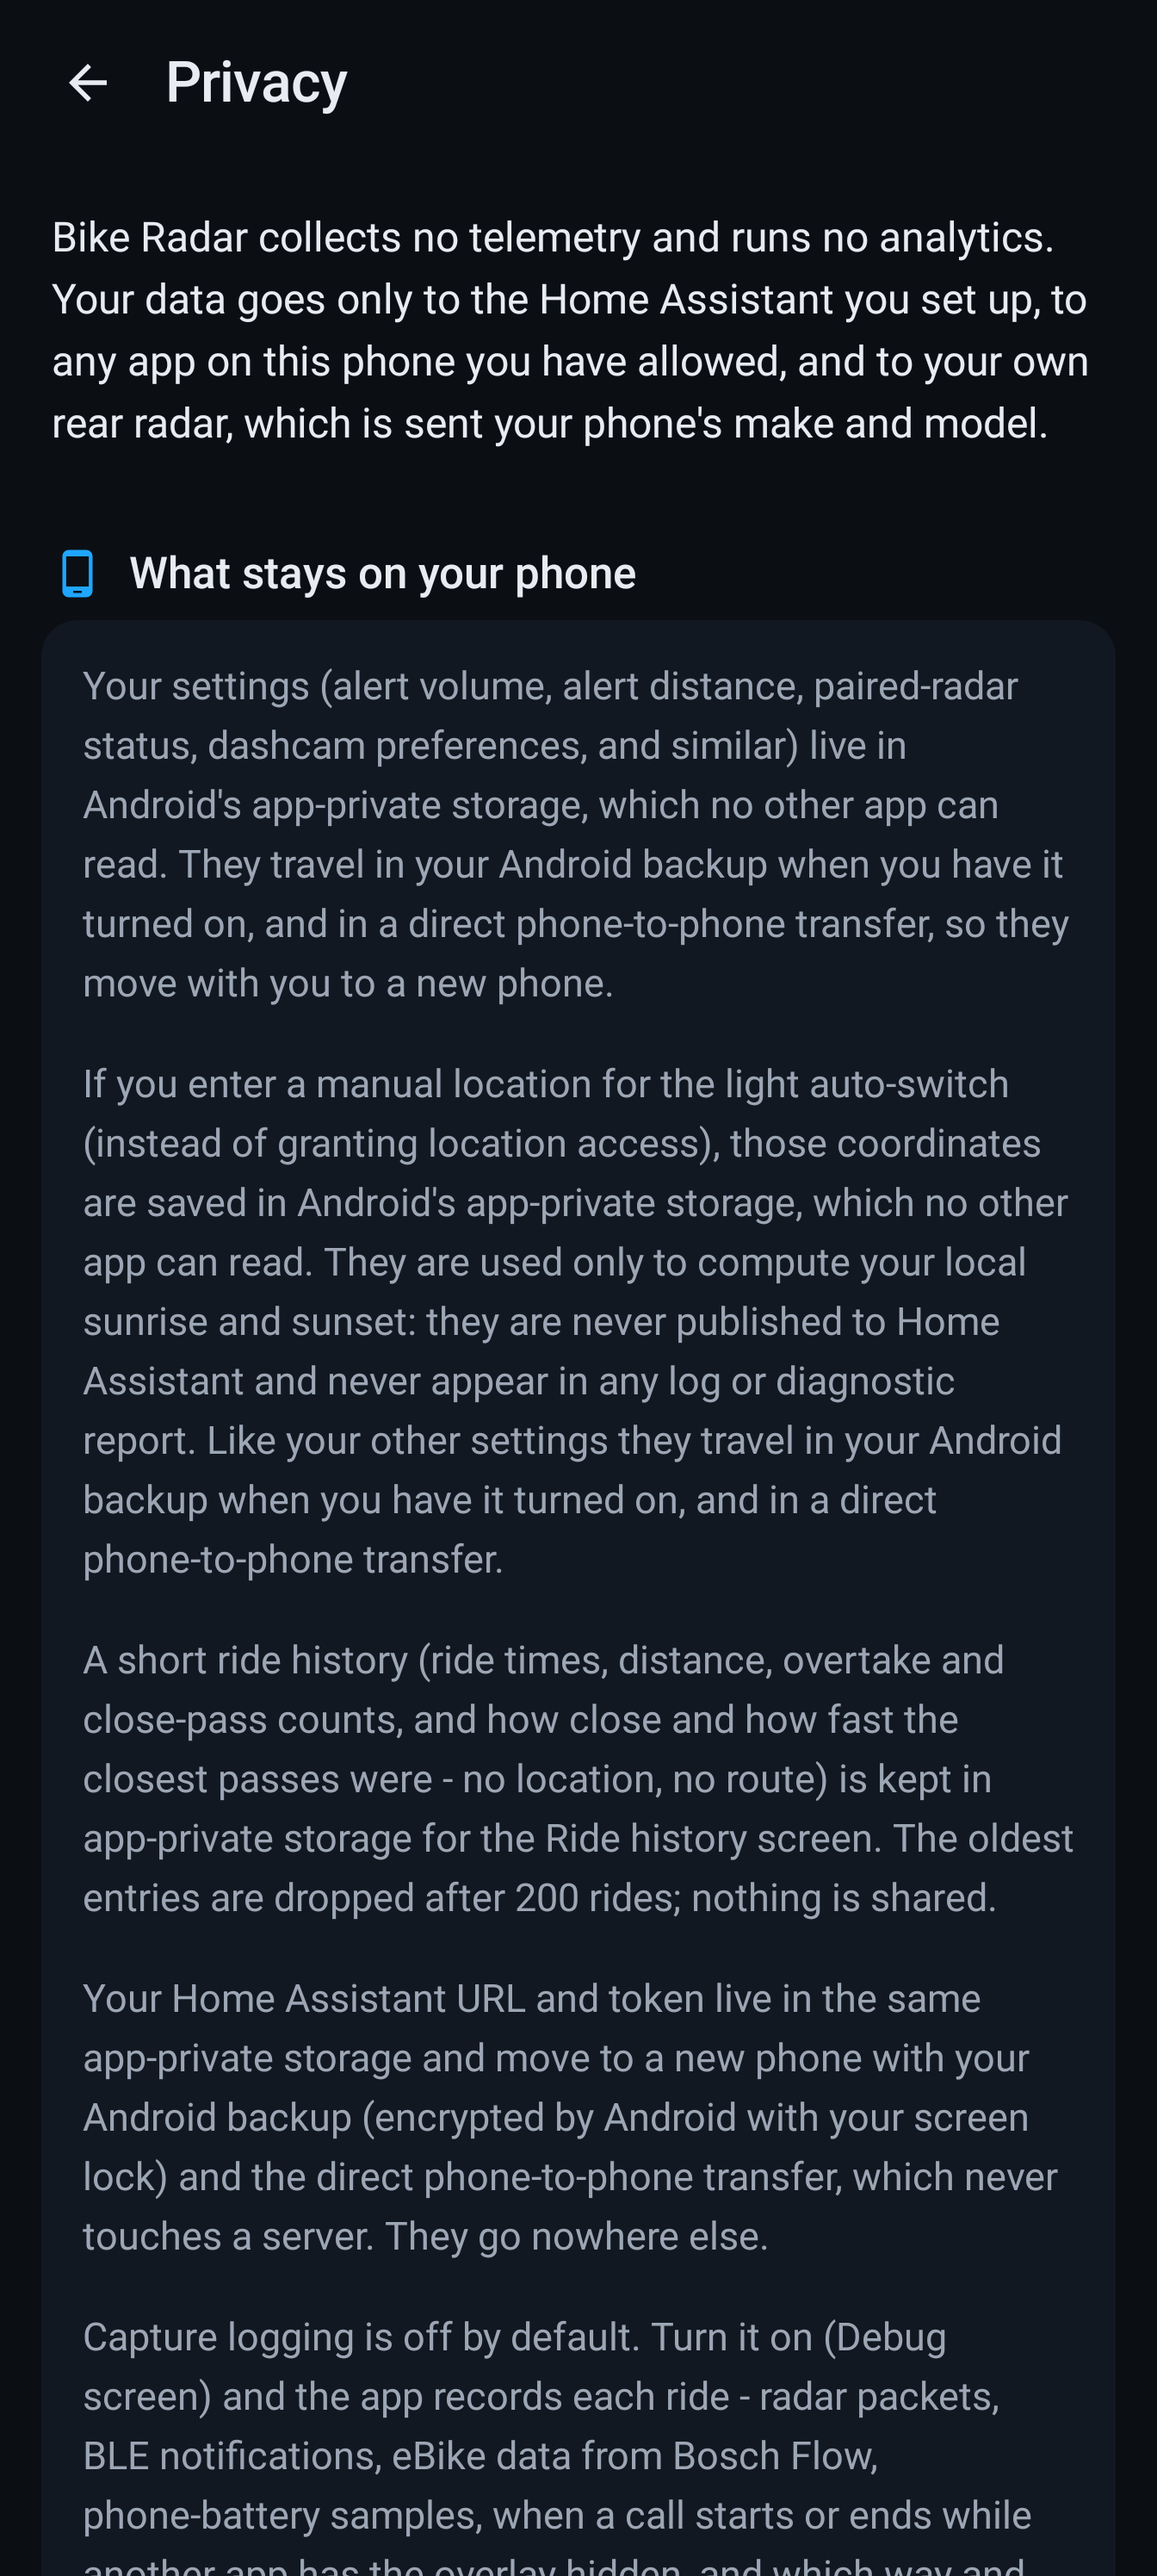
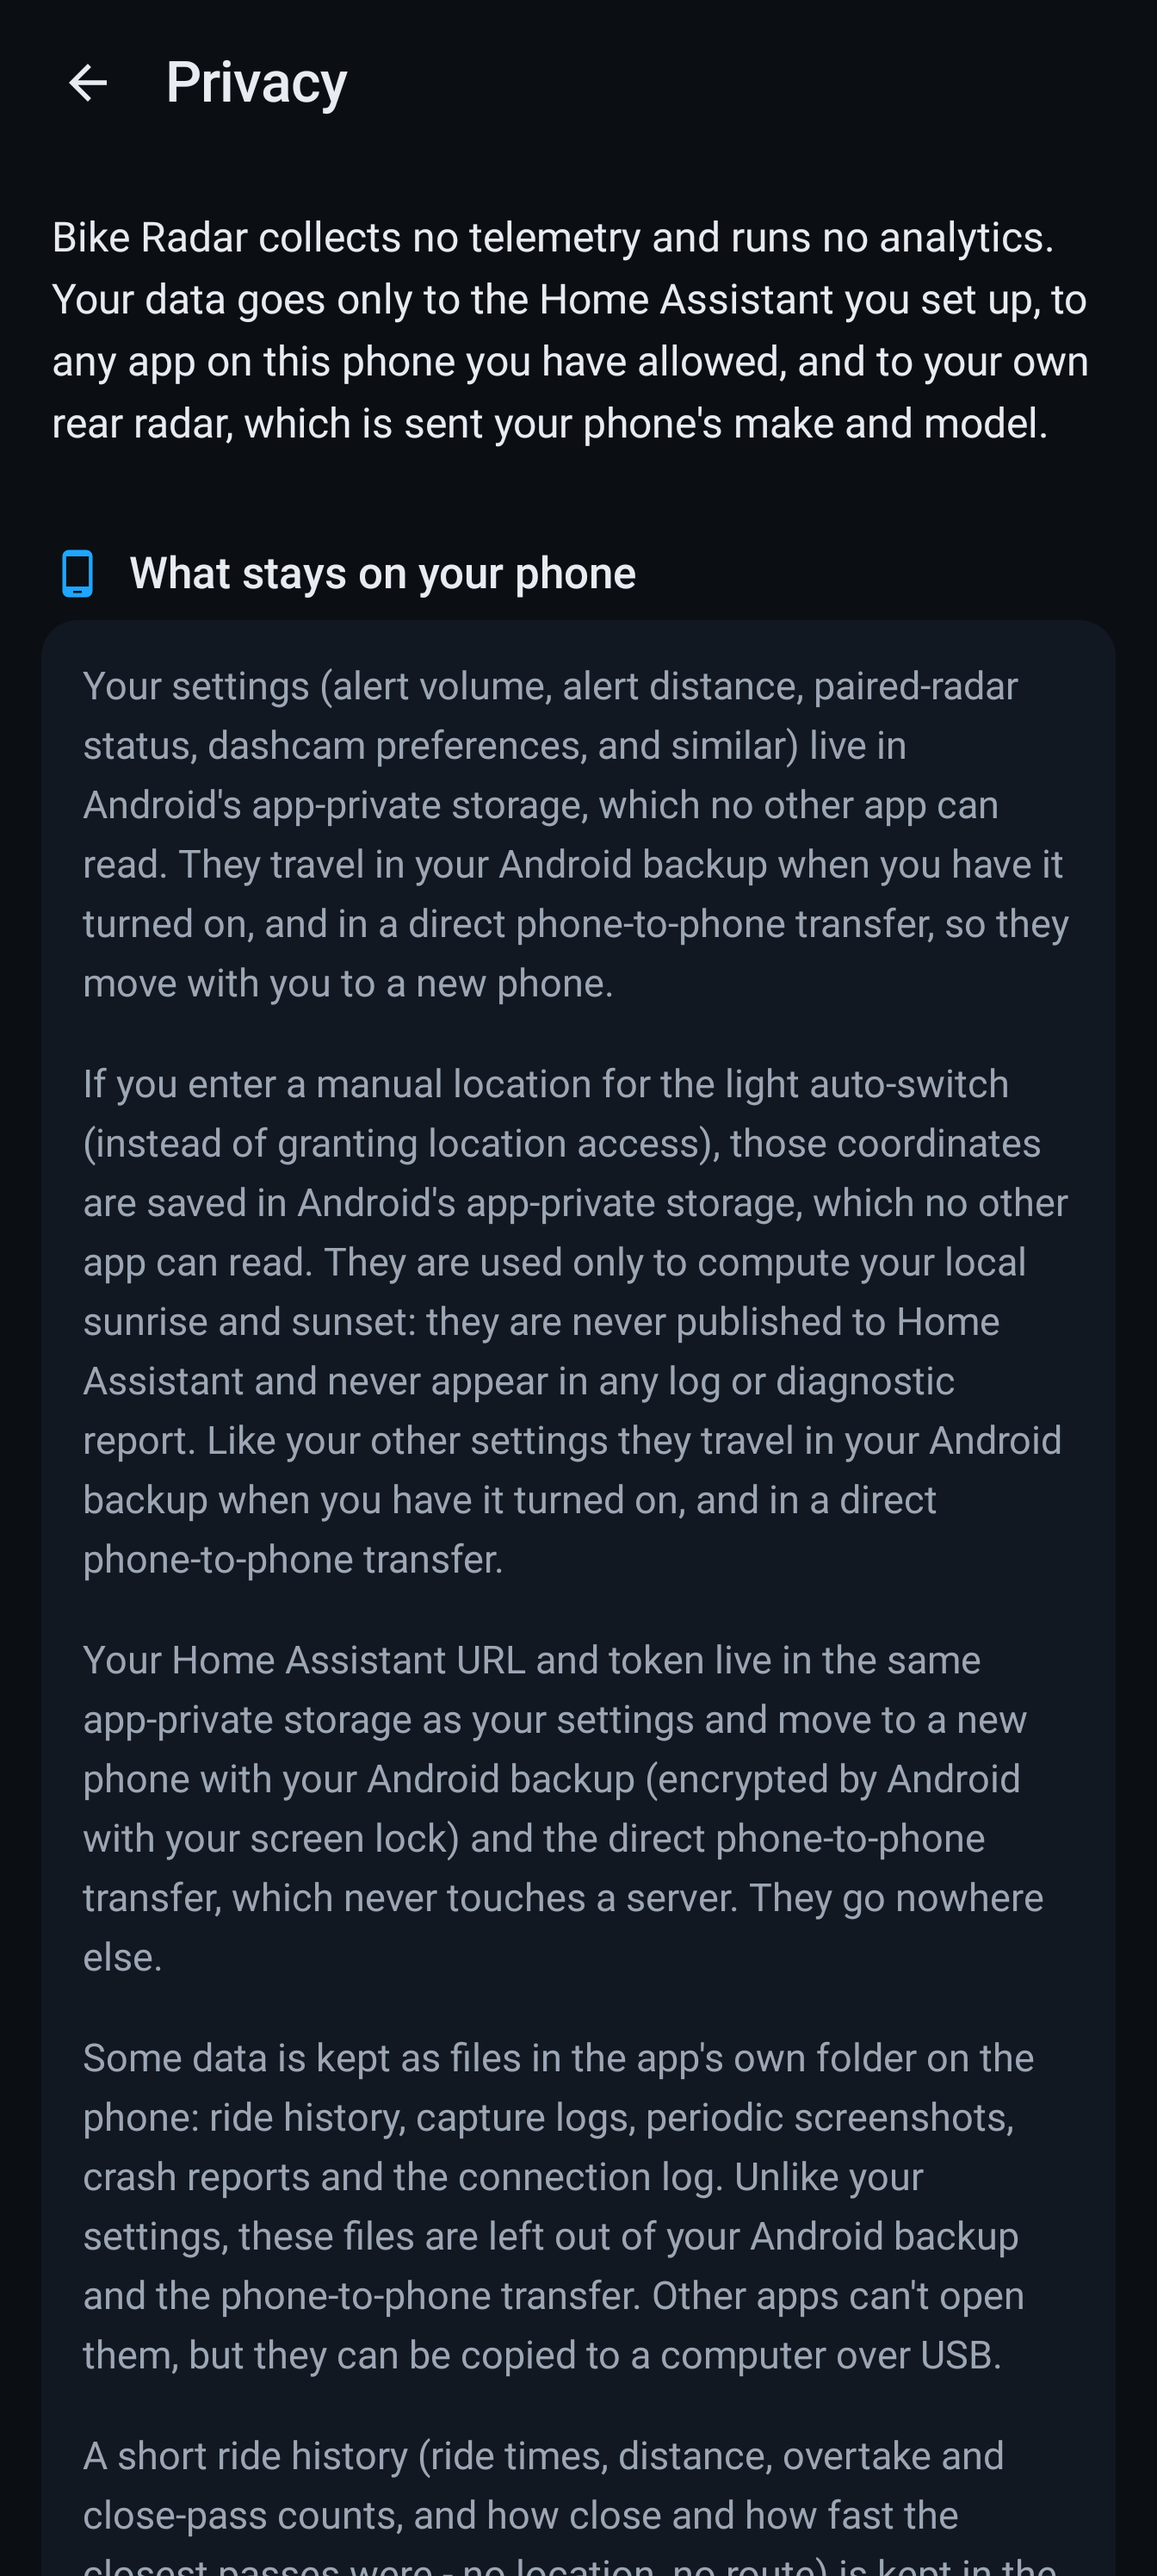
fix(privacy): say where ride history and logs are really kept
The Privacy screen called ride history, crash reports and the
connection log app-private storage, the phrase it uses for the Home
Assistant token. They are files in the app's own folder: other apps
cannot open them, but backups skip them and they can be copied over
USB. A new paragraph says so once, the others refer to it, and the
README matches.

Changed region(s): [[0.0625, 0.6219, 0.9062, 1.0]]

diff --git a/app/src/main/java/es/jjrh/bikeradar/ui/SettingsPrivacy.kt b/app/src/main/java/es/jjrh/bikeradar/ui/SettingsPrivacy.kt
@@ -91,8 +91,9 @@ private fun SettingsPrivacyBody(navController: NavController) {
             PrivacySection(Icons.Default.PhoneAndroid, R.string.settings_privacy_on_phone_label) {
                 PrivacyP(stringResource(R.string.settings_privacy_on_phone_settings))
                 PrivacyP(stringResource(R.string.settings_privacy_on_phone_location))
-                PrivacyP(stringResource(R.string.settings_privacy_on_phone_rides))
                 PrivacyP(stringResource(R.string.settings_privacy_on_phone_creds))
+                PrivacyP(stringResource(R.string.settings_privacy_on_phone_files))
+                PrivacyP(stringResource(R.string.settings_privacy_on_phone_rides))
                 PrivacyP(stringResource(R.string.settings_privacy_on_phone_capture))
                 PrivacyP(stringResource(R.string.settings_privacy_on_phone_screenshots, ScreenshotCaptureService.MAX_SCREENSHOTS))
                 PrivacyP(stringResource(R.string.settings_privacy_on_phone_crashes))

diff --git a/app/src/main/java/es/jjrh/bikeradar/RideHistoryStore.kt b/app/src/main/java/es/jjrh/bikeradar/RideHistoryStore.kt
@@ -12,10 +12,11 @@ import java.io.File
  * [BikeRadarService.maybePostRideSummary]) and read back by the Ride
  * history screen.
  *
- * Deliberately minimal - a single JSON-lines file in app-private
- * storage, no database. The history is a per-ride log, not a sync
- * target: it never leaves the phone, holds no location, and is capped
- * at [MAX_RIDES] (oldest dropped) so it can't grow unbounded.
+ * Deliberately minimal - a single JSON-lines file in app-specific
+ * external storage, no database. The history is a per-ride log, not a
+ * sync target: the app never sends it anywhere, backups exclude it, it
+ * holds no location, and it is capped at [MAX_RIDES] (oldest dropped)
+ * so it can't grow unbounded.
  *
  * Thread-safety: [append] runs on the service's walk-away tick (IO
  * dispatcher) and [readAll] on a UI-launched IO coroutine, on separate

diff --git a/README.md b/README.md
@@ -48,7 +48,7 @@ screen stays yours.
 - **Close-pass counting and ride history, all on your phone.** Counts
   the close overtakes the radar actually measured, notifies a post-ride
   summary, and keeps per-ride stats - distance, overtakes, close passes, how close
-  and how fast the closest came - in app-private storage. No account,
+  and how fast the closest came - in the app's own folder on the phone. No account,
   no location, no route.
 
 <details><summary><b>More features</b></summary>
@@ -83,7 +83,7 @@ screen stays yours.
   the developer. What the other app does with it afterwards is up to that
   app, so only allow one you trust.
 - Optional per-ride capture log (off by default; enable on the Debug
-  screen) written to app-private storage: radar packets, BLE
+  screen) written to the app's own folder on the phone: radar packets, BLE
   characteristic notifications, eBike telemetry from Bosch Flow,
   phone-battery trace, turn direction and rate from the motion sensors,
   the start and end of a call while another app has the overlay hidden,
